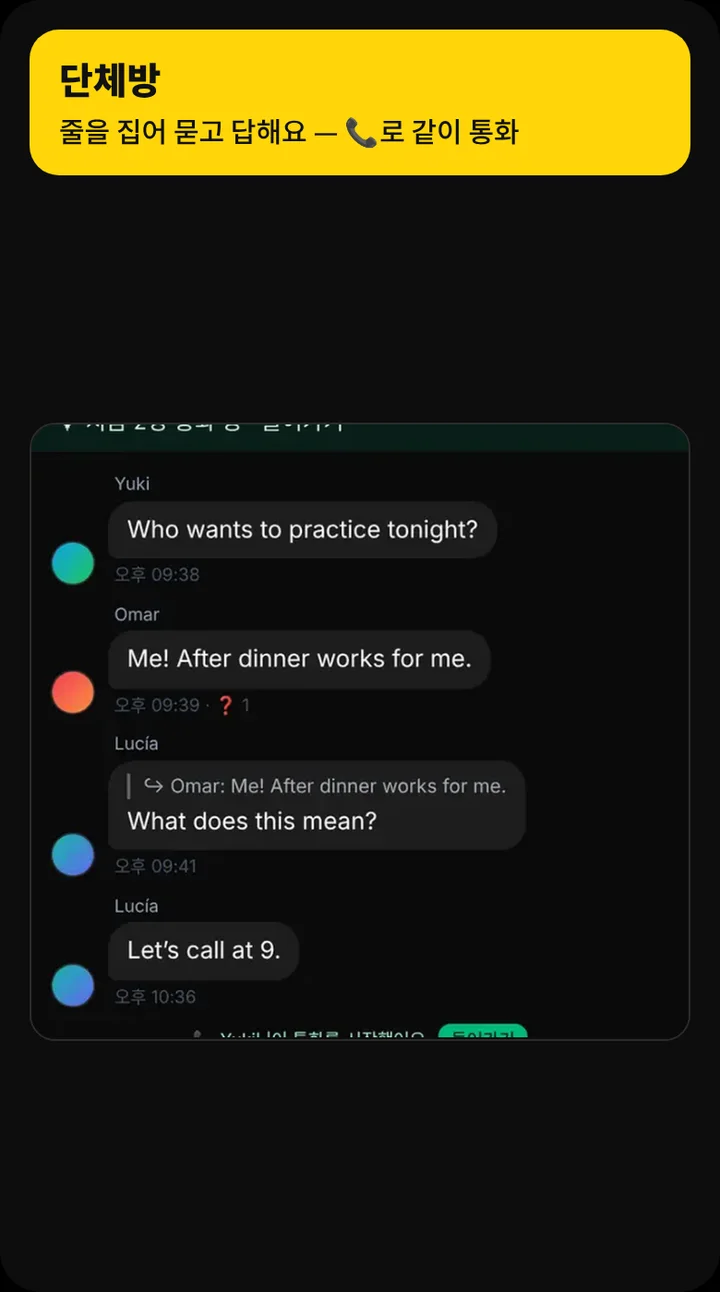
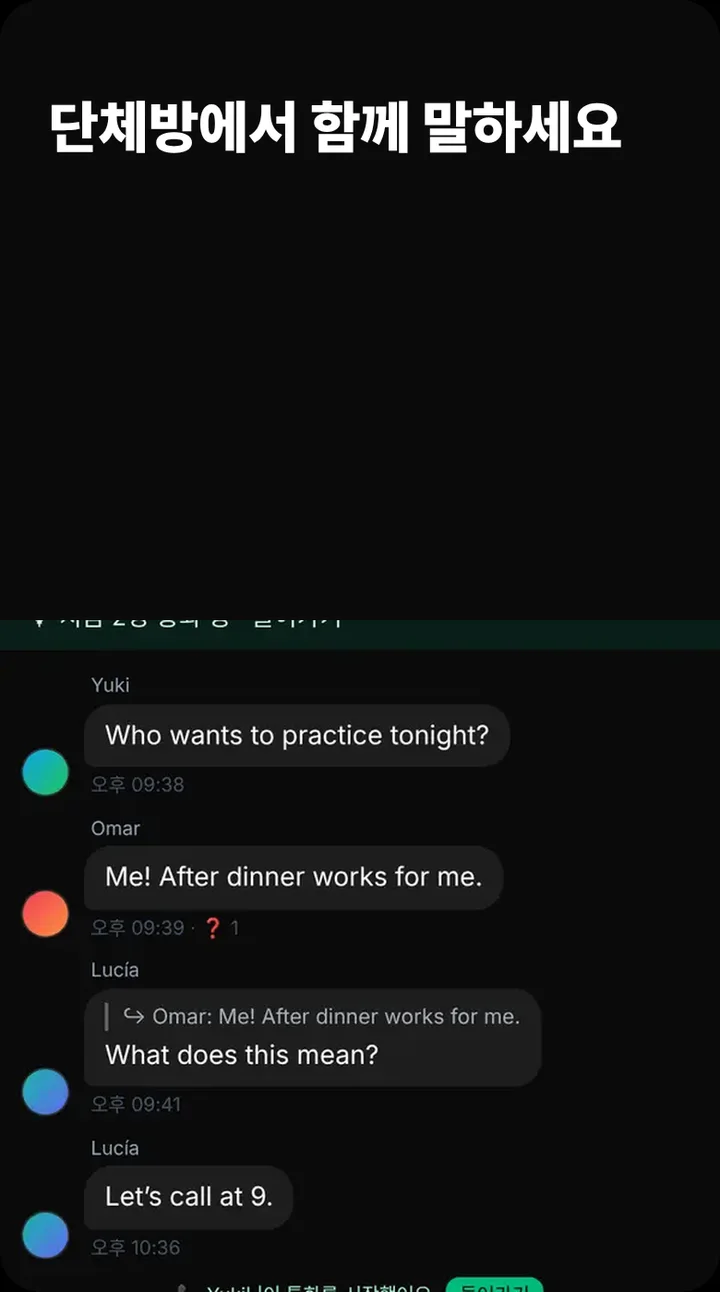
사용법 장면: 문구 한 줄을 스크린샷 안에, 상세 설명은 뺌
Claude-Session: https://claude.ai/code/session_01R73CvM9KixbeDipuoQjmvv

diff --git a/src/lib/guide/slides.ts b/src/lib/guide/slides.ts
@@ -1,12 +1,12 @@
 /**
  * 사용법 장 안의 넘겨 보기 장면(2026-11-14 사용자 "탭 → 칸 → 핵심 사용 장면, 넘기면 세부 — 기능이 보이는 부분만 잘라, 그림 안에 기능 이름·설명").
- * 장면 한 장 = 그림 한 장(/guide/<앱 언어>/<shot>.webp) — 기능 이름·설명 한 줄이 그림 안에 있다(scripts/guide-slides/).
+ * 장면 한 장 = 그림 한 장(/guide/<앱 언어>/<shot>.webp) — 스크린샷 위쪽에 문구 한 줄이 들어 있다(scripts/guide-slides/).
  * 첫 장이 그 칸의 핵심, 그 뒤가 세부. 🔊처럼 아이콘만으로 통하는 것은 설명하지 않는다.
  * /api/guide `slides=1`이 앱 언어에 그림이 있는 장만 준다 — 없는 언어·옛 빌드는 장의 예전 칸 글 그대로.
  * 칸 이름은 {ui:<키>} — 화면 문구 그대로. 그림을 다시 만들려면 scripts/guide-slides/(shoot → compose).
  */
-/** title·desc는 그림 안에 그려진 글(scripts/guide-slides/compose.mjs가 읽어 그림)이고, 앱은 읽어 주기(alt)로만 쓴다. */
-export type GuideSlide = { shot: string; title: string; desc: string };
+/** title은 그림 안에 그려진 문구 한 줄(scripts/guide-slides/compose.mjs) — 기능이 주는 것을 "~하세요/~해요"로, 사용법 상세는 넣지 않는다(사용자 2026-11-16). 앱은 읽어 주기(alt)로만 쓴다. */
+export type GuideSlide = { shot: string; title: string };
 /** covers: 이 칸이 대신하는 예전 칸 글 id — 새로워진 점 "자세히"(whatsNew guide)가 그 칸 id로 열면 이 칸을 고른 채 연다. */
 export type GuideSlideGroup = { id: string; title: string; covers?: string[]; slides: GuideSlide[] };
 
@@ -19,9 +19,9 @@ const SLIDES: Record<string, Record<string, GuideSlideGroup[]>> = {
         title: "{ui:talkAiTutor}",
         covers: ["chat.next", "chat.talk", "chat.stuck", "chat.meaning", "chat.analyse", "chat.words", "chat.menu", "chat.history"],
         slides: [
-          { shot: "tab-chat-1", title: "학습 언어로 대화", desc: "튜터가 답하고, 고칠 곳은 ✎ 칩으로 알려 줘요" },
-          { shot: "tab-chat-2", title: "고친 문장", desc: "칩을 누르면 고친 문장과 더 자연스러운 말" },
-          { shot: "tab-chat-3", title: "막히면 편한 말로", desc: "튜터가 학습 언어로 이어 주고 표현을 보여 줘요 — 그 표현으로 말해 봐요" },
+          { shot: "tab-chat-1", title: "튜터와 채팅하세요" },
+          { shot: "tab-chat-2", title: "고친 문장을 바로 보세요" },
+          { shot: "tab-chat-3", title: "막히면 편한 말로 쓰세요" },
         ],
       },
     ],
@@ -31,9 +31,9 @@ const SLIDES: Record<string, Record<string, GuideSlideGroup[]>> = {
         title: "{ui:homeTabTalk}",
         covers: ["talk.list", "messages.dm", "messages.groups"],
         slides: [
-          { shot: "tab-talk-1", title: "대화 목록", desc: "맨 위 AI 튜터, 아래 단체방과 1:1 메시지" },
-          { shot: "tab-talk-2", title: "단체방", desc: "줄을 집어 묻고 답해요 — 📞로 같이 통화" },
-          { shot: "tab-talk-3", title: "1:1 메시지", desc: "줄을 눌러 묻거나 답하고, 📞로 둘만의 통화" },
+          { shot: "tab-talk-1", title: "모든 대화를 한곳에서" },
+          { shot: "tab-talk-2", title: "단체방에서 함께 말하세요" },
+          { shot: "tab-talk-3", title: "1:1로 친구와 대화하세요" },
         ],
       },
     ],
@@ -43,9 +43,9 @@ const SLIDES: Record<string, Record<string, GuideSlideGroup[]>> = {
         title: "{ui:homeTabVideo}",
         covers: ["video.library", "video.subtitles", "video.bar", "video.ask", "video.import", "video.edit"],
         slides: [
-          { shot: "tab-video-1", title: "이달의 영상", desc: "골라서 학습 언어 자막으로 봐요" },
-          { shot: "tab-video-2", title: "자막 한 줄씩", desc: "문장을 누르면 그 구간만 다시 — 단어는 📕로" },
-          { shot: "tab-video-3", title: "물어보기", desc: "점을 끌어 부분을 고르고 뜻·문법을 물어봐요" },
+          { shot: "tab-video-1", title: "좋아하는 영상으로 배우세요" },
+          { shot: "tab-video-2", title: "자막 한 줄씩 들어 보세요" },
+          { shot: "tab-video-3", title: "모르는 부분은 물어보세요" },
         ],
       },
     ],
@@ -55,8 +55,8 @@ const SLIDES: Record<string, Record<string, GuideSlideGroup[]>> = {
         title: "{ui:homeTabPeople}",
         covers: ["people.find", "people.invite", "people.rewards", "people.board", "people.icons"],
         slides: [
-          { shot: "tab-people-1", title: "사람", desc: "같은 언어를 배우는 사람 — 팔로우·메시지" },
-          { shot: "tab-people-2", title: "게시판", desc: "자유·질문·메이트·단체방 주제로 글을 쓰고 메이트를 구해요" },
+          { shot: "tab-people-1", title: "다른 사람과 교류하세요" },
+          { shot: "tab-people-2", title: "게시판에서 메이트를 구하세요" },
         ],
       },
     ],
@@ -66,8 +66,8 @@ const SLIDES: Record<string, Record<string, GuideSlideGroup[]>> = {
         title: "{ui:homeTabRooms}",
         covers: ["room.find", "room.layouts", "room.quote", "room.stuck", "room.game", "room.mafia", "room.watch", "room.host"],
         slides: [
-          { shot: "tab-rooms-1", title: "열린 방", desc: "방을 만들거나 들어가요 — 말하기 또는 듣기만" },
-          { shot: "tab-rooms-2", title: "방 안", desc: "자리에 오르면 말하고, 자막·채팅으로 함께 — 방장은 🎭 게임" },
+          { shot: "tab-rooms-1", title: "열린 방에 들어가 보세요" },
+          { shot: "tab-rooms-2", title: "여럿이 함께 말해요" },
         ],
       },
     ],
@@ -77,8 +77,8 @@ const SLIDES: Record<string, Record<string, GuideSlideGroup[]>> = {
         title: "📞 {ui:callModeTalk}",
         covers: ["call.talk"],
         slides: [
-          { shot: "call-talk-1", title: "자유대화", desc: "튜터와 하고 싶은 이야기를 편하게 해요" },
-          { shot: "call-talk-2", title: "고친 말은 카드로", desc: "말을 끊지 않고, 고친 말은 내 얼굴 아래 카드로 보여요" },
+          { shot: "call-talk-1", title: "튜터와 편하게 통화하세요" },
+          { shot: "call-talk-2", title: "고친 말은 카드로 보여요" },
         ],
       },
       {
@@ -86,27 +86,27 @@ const SLIDES: Record<string, Record<string, GuideSlideGroup[]>> = {
         title: "🎓 {ui:callModeStudy}",
         covers: ["call.coach"],
         slides: [
-          { shot: "call-lesson-1", title: "수업", desc: "튜터가 문장구조 하나를 칠판에 보여 주고, 그 틀로 내 이야기를 하게 해요" },
-          { shot: "call-lesson-2", title: "틀리면 짚고 다시", desc: "큰 실수는 튜터가 짚어 주고 다시 말해 봐요 — 끝나면 숙제가 생겨요" },
+          { shot: "call-lesson-1", title: "칠판의 문장으로 말해 보세요" },
+          { shot: "call-lesson-2", title: "틀리면 바로 다시 말해 봐요" },
         ],
       },
       {
         id: "twenty",
         title: "🎲 {ui:callModeGame}",
-        slides: [{ shot: "call-game-1", title: "게임 · 스무고개", desc: "튜터가 떠올린 것을 예/아니오 질문 20번 안에 맞혀요" }],
+        slides: [{ shot: "call-game-1", title: "스무고개로 놀면서 말하세요" }],
       },
       {
         id: "teach",
         title: "🧑🏫 {ui:gameTeach}",
-        slides: [{ shot: "call-teach-1", title: "가르치기", desc: "튜터가 한국어를 배우는 학생 — 튜터의 한국어 문장을 보고 영어로 고쳐 주고 설명해요" }],
+        slides: [{ shot: "call-teach-1", title: "튜터에게 가르쳐 보세요" }],
       },
       {
         id: "past",
         title: "{ui:callRecordsTitle}",
         covers: ["call.review", "call.pause"],
         slides: [
-          { shot: "call-past-1", title: "돌아보기", desc: "지난 통화를 다시 보고, 내가 하려던 말을 고친 문장으로 확인해요" },
-          { shot: "call-past-2", title: "통화 정리", desc: "고친 말을 한곳에 — 칩을 누르면 그 문장구조·문법 수업" },
+          { shot: "call-past-1", title: "지난 통화를 다시 보세요" },
+          { shot: "call-past-2", title: "고친 말을 한곳에 모아요" },
         ],
       },
     ],
@@ -116,18 +116,18 @@ const SLIDES: Record<string, Record<string, GuideSlideGroup[]>> = {
         title: "{ui:keepTitle}",
         covers: ["my.start", "my.next", "my.map"],
         slides: [
-          { shot: "my-keep-1", title: "Quizbank", desc: "퀴즈를 한 흐름으로 풀어요 — − · + 로 쉽게·어렵게" },
-          { shot: "my-keep-2", title: "맞힐수록 다음 단계로", desc: "같은 문법·표현을 맞히면 한 단계씩 어려워지고, 틀리면 그 단계에서 다른 문장으로 다시" },
-          { shot: "my-keep-3", title: "부족한 곳을 계속 채워요", desc: "틀린 것, [다시]를 누른 것, 대화에서 막힌 것을 다시 내고, 자주 틀리는 종류를 더 많이 내요" },
+          { shot: "my-keep-1", title: "퀴즈로 매일 배우세요" },
+          { shot: "my-keep-2", title: "맞힐수록 한 단계씩 어려워져요" },
+          { shot: "my-keep-3", title: "부족한 곳은 다시 채워져요" },
         ],
       },
       {
         id: "lang",
         title: "{ui:languagebankTitle}",
         slides: [
-          { shot: "my-lang-1", title: "Languagebank", desc: "배울 단어·표현·문법이 단계별로 — 찾기도 여기서" },
-          { shot: "my-lang-2", title: "묶음 ▶ 넘겨 보기", desc: "주제·단계 묶음을 카드로 넘기며 뜻·단어·예문을 떠올려요" },
-          { shot: "my-lang-3", title: "단어 화면", desc: "한 단어의 뜻 여러 개와 예문을 한눈에" },
+          { shot: "my-lang-1", title: "배울 말이 모두 여기에" },
+          { shot: "my-lang-2", title: "카드를 넘기며 외워 보세요" },
+          { shot: "my-lang-3", title: "뜻과 예문을 한눈에" },
         ],
       },
       {
@@ -135,9 +135,9 @@ const SLIDES: Record<string, Record<string, GuideSlideGroup[]>> = {
         title: "{ui:logbankTitle}",
         covers: ["my.growth", "my.graph", "my.element"],
         slides: [
-          { shot: "my-log-1", title: "Logbank", desc: "주·월마다 배운 것 — 퀴즈로 배운 수(학습), 대화에서 쓴 수(활용)" },
-          { shot: "my-log-2", title: "그날 학습", desc: "날을 누르면 언제 무엇을 했는지 시간 순서로" },
-          { shot: "my-log-3", title: "맞음 ✓ · 틀림 ✗", desc: "한 번 한 공부의 단어·문법·표현마다 결과가 남아요" },
+          { shot: "my-log-1", title: "배운 것이 쌓여요" },
+          { shot: "my-log-2", title: "그날 무엇을 했는지 보세요" },
+          { shot: "my-log-3", title: "맞힌 것과 틀린 것을 확인하세요" },
         ],
       },
     ],

diff --git a/src/components/GuideSheet.tsx b/src/components/GuideSheet.tsx
@@ -52,7 +52,7 @@ const SCREEN_CHAPTER: Record<string, string> = {
 
 /**
  * 장 안의 넘겨 보기(2026-11-14, lib/guide/slides.ts): 칸 칩 → 첫 장 = 그 칸의 핵심, 옆으로 넘기면 세부.
- * 기능 이름·설명은 그림 안에 있다 — 여기선 칸 이름(화면 문구)만.
+ * 문구는 그림 안에 있다 — 여기선 칸 이름(화면 문구)만.
  */
 function SlideDeck({ groups, ui, locale, section }: { groups: GuideSlideGroup[]; ui: UICopy; locale: string; section?: string }) {
   // 새로워진 점 "자세히"가 예전 칸 id로 열면 그 칸을 대신하는 칸을 고른 채로(slides.ts covers).
@@ -103,7 +103,7 @@ function SlideDeck({ groups, ui, locale, section }: { groups: GuideSlideGroup[];
           // 높이를 미리 잡아 둔다 — 그림이 늦게 와도 "자세히"로 연 장까지 내려간 자리가 밀리지 않게.
           <div key={slide.shot} className="flex h-[70vh] w-full shrink-0 snap-center justify-center">
             {/* eslint-disable-next-line @next/next/no-img-element */}
-            <img src={apiUrl(`/guide/${locale}/${slide.shot}.webp`)} alt={`${slide.title} — ${slide.desc}`} loading="lazy" className="h-full w-auto max-w-full rounded-2xl object-contain" />
+            <img src={apiUrl(`/guide/${locale}/${slide.shot}.webp`)} alt={slide.title} loading="lazy" className="h-full w-auto max-w-full rounded-2xl object-contain" />
           </div>
         ))}
       </div>

diff --git a/hub/chat/log/2026-11.md b/hub/chat/log/2026-11.md
@@ -2997,3 +2997,11 @@
 - 광고 안: 6개(새 안 move 사용법 끝 네이티브 옮기기 — 손익 변화 없음, 나머지 지난번 그대로), 지금 +486,562 → +522,764원/1,000명·월, 알림 없음. 화면 점검은 오늘 이미 돌아 건너뜀
 - 구조: 변화 없음
 - 옛 것: 없음
+
+## 2026-11-16 · dev(탭 1) · 사용법 장면 — 문구를 스크린샷 안에 한 줄만
+- 사용자 "설명 아래 스크린샷이 아니라 스크린샷 안에 문구가 들어가게, 다른 사람과 교류하세요 이런 식" → 시안 4장 → "위 문구만 남겨서, 상세 설명은 넣지 말고".
+- 한 것: 장면 30장 모두 노란 설명 칸 대신 스크린샷 위쪽이 어둡게 이어지고 큰 흰 글씨 한 줄(`compose.mjs` 새 틀). `slides.ts` desc 지움 — title = "~하세요/~해요" 한 줄(예: 다른 사람과 교류하세요 · 퀴즈로 매일 배우세요 · 튜터에게 가르쳐 보세요), 앱은 alt로만. 그림 `public/guide/ko/{my,call,tab}-*.webp` 다시.
+- 확인: tsc · eslint(새 경고 0), 장면 모음 `tmp/verify/2026-11-14/guide-overlay-all.png` 눈으로. 화면 코드는 alt 한 줄만 바뀌어 브라우저 확인은 건너뜀.
+- 바로 반영(서버 그림·웹), Play는 2.80 빌드부터.
+- 구조: 변화 없음
+- 옛 것: 없음(예전 설명 칸 틀은 compose에서 지움)
